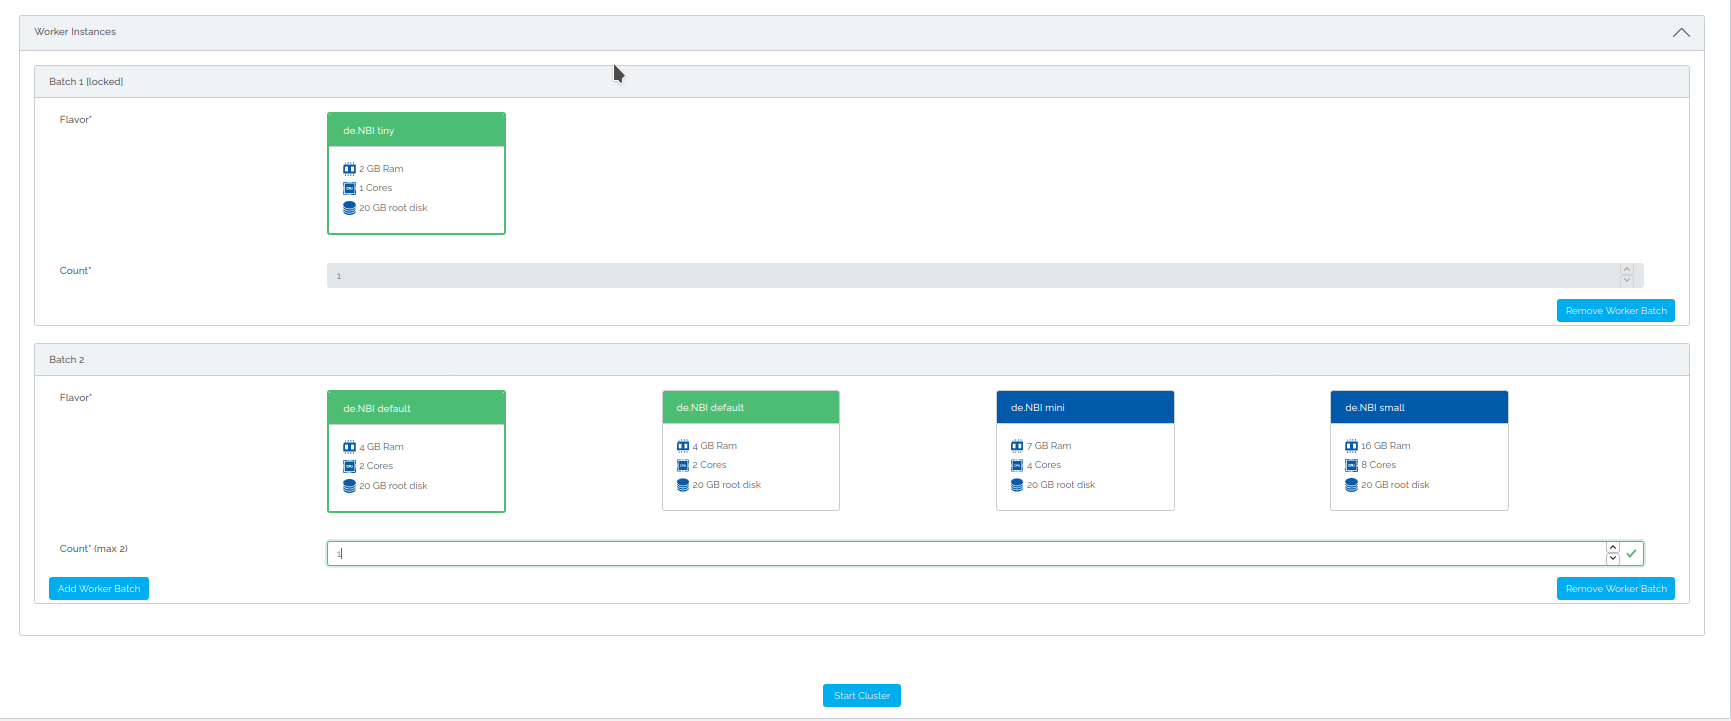
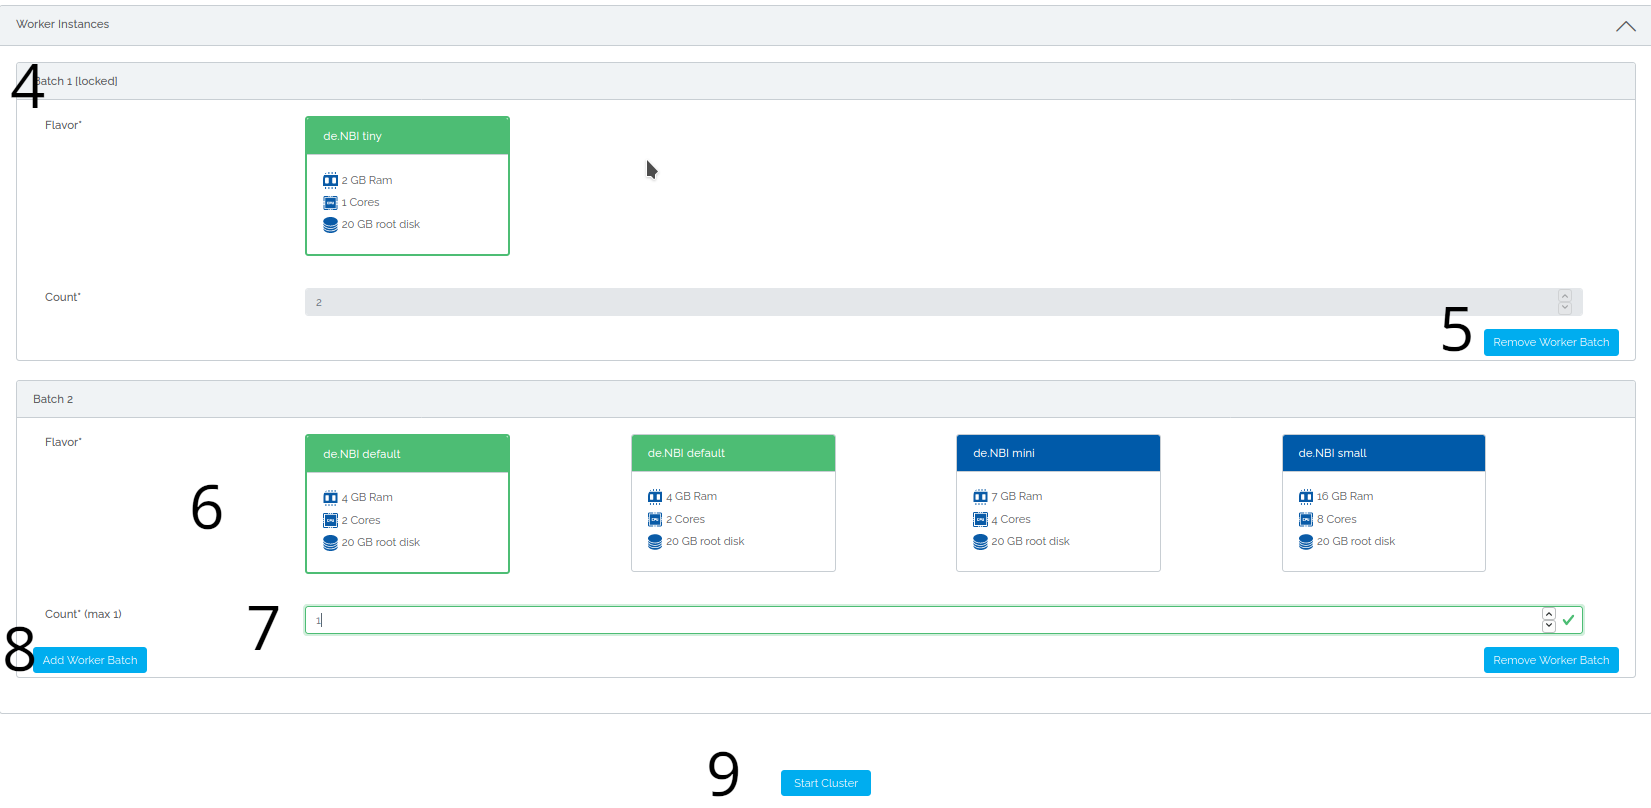
updated new cluster site

diff --git a/wiki/simple_vm/new_cluster.md b/wiki/simple_vm/new_cluster.md
@@ -25,17 +25,22 @@ Ephemeral storage suits best for temporary data that changes often or is consist
 ### 3. Master Image
 Here you may choose the image your master virtual machine will be started with. Images are basically the operating system and tool packages which will be installed on your virtual machine. The images listed here are the ones provided by de.NBI and your created snapshots. For more information about images and snapshots, please visit the [wiki page](./snapshots.md).
 
+All your workers will have the same image as the master image!
 
-### 4. Worker Flavor
-Here you may choose the flavor for your worker virtual machines.
-Currently every worker must have the same flavor.
+### 4. Batch
+The workers of your cluster are stored in batches, each batch has a number of workers and a specific image
 
-### 5. Master Image
-Here you may choose the image for your worker virtual machines.
-Currently every worker must have the same image.
+### 5. Remove Batch
+With this button you can remove a batch
 
-### 6. Worker Count
-Depending on how many resources you have available in your project and which master and worker flavor you have chosen, you can start a certain amount of workers.
+### 6. Worker Batch Flavor
+Here you may choose the flavor for your worker batch.
+
+### 7. Batch Worker Count
+Depending on how many resources you have available in your project and which master and worker flavor you have chosen, you can start a certain amount of workers for the batch.
+
+### 8. Add a Batch
+If you need another batch with a different flavor you can add another one with this button
 
 ### 7. Start Cluster
 Here you finally may start your cluster. After a short time, you will be redirected to the [Cluster Overview](./cluster_overview.md) page.

diff --git a/wiki/simple_vm/cluster_overview.md b/wiki/simple_vm/cluster_overview.md
@@ -37,13 +37,13 @@ wget https://raw.githubusercontent.com/deNBI/user_scripts/master/bibigrid/v0/sca
 Now the downloaded script has to be executed:
 
 ```BASH
-python3 scaling_up_v0.py 
+python3 scaling_v0.1.0.py 
 ```
 
 When the script has run, your cluster is properly configured again and the new workers can be used!
 </li>
 
-You can check with the command **sinfo** if the worker has been added correctly!
+You can check with the command _sinfo_ if the worker has been added correctly!
 
 **If the new worker is still missing you can try to restart slurm with the following command:**
 ```BASH
@@ -80,14 +80,14 @@ wget https://raw.githubusercontent.com/deNBI/user_scripts/master/bibigrid/v0/sca
 Now the downloaded script has to be executed:
 
 ```BASH
-python3 scaling_down_v0.py 
+python3 scaling_v0.1.0.py 
 ```
 
 When the script has run, your cluster is properly configured again!
 
 
 </li>
-You can check with the command **sinfo** if the worker has been removed correctly!
+You can check with the command _sinfo_ if the workers have been removed correctly!
 
 **If the  workers are still there you can try to restart slurm with the following command:**
 ```BASH
